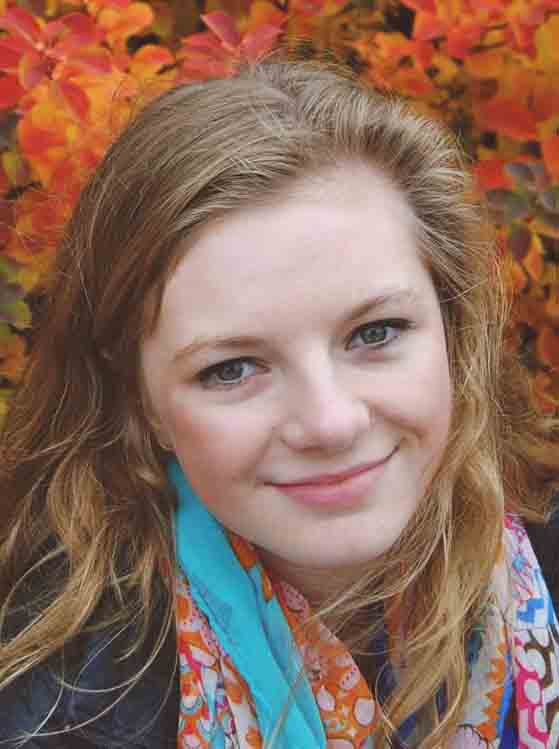
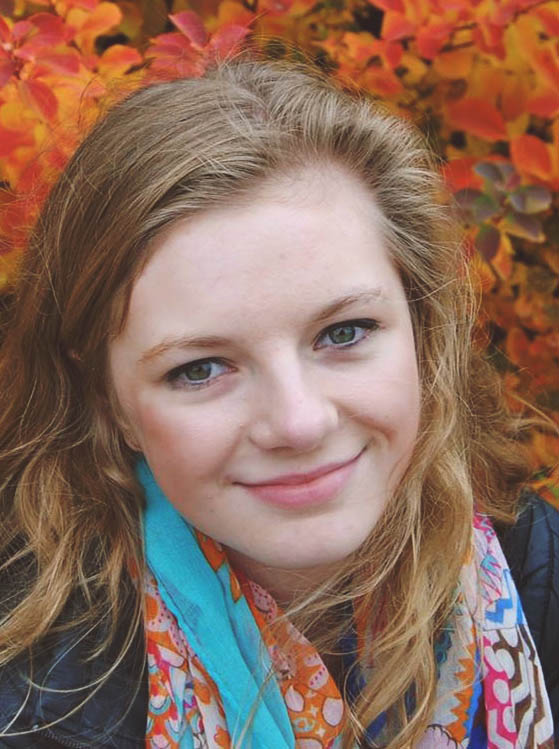
Picture changes, added 2 new profiles
Decreased the quality in the pictures so website can load faster.

diff --git a/ImagineBernie/template-assets/index.html b/ImagineBernie/template-assets/index.html
@@ -601,6 +601,42 @@ j=d.createElement(s),dl=l!='dataLayer'?'&l='+l:'';j.async=true;j.src=
                         </div>
                     </div>
                 </div>
+                <!--
+                <div class="team">
+                        <img class="img-responsive center-block" src="img/team/KevinLe.jpg" alt="3"> 
+                        <h4>Nicole Flokos </h4> 
+                        <p> Web Developer </p>
+                        <p> New Haven, Connecticut </p> 
+                        <div class="team-social-icons">
+                            <a href="https://facebook.com/nicole.flokos"><i class="fa fa-facebook"></i></a>
+                            <a href="https://github.com/silicarich"><i class="fa fa-github"></i></a>
+                            <a href="https://twitter.com/silicarich"><i class="fa fa-twitter"></i></a>
+                        </div>
+                    </div>
+                </div>
+                <div class="team">
+                        <img class="img-responsive center-block" src="img/team/KevinLe.jpg" alt="3"> 
+                        <h4> Andy Kamath </h4> 
+                        <p>Web Developer</p>
+                        <p> </p> 
+                        <div class="team-social-icons">
+                            <a href="https://facebook.com/hackgician"></i></a>
+                            <a href="https://github.com/andykamath"><i class="fa fa-github"></i></a>
+                            <a href="https://www.linkedin.com/in/anirudh-kamath-62508b97"><i class="fa fa-linkedin"></i></a>
+                        </div>
+                    </div>
+                </div>
+            -->
+
+
+
+
+
+
+
+
+
+
 <!-- space for more profiles -->
 
                 </div>
